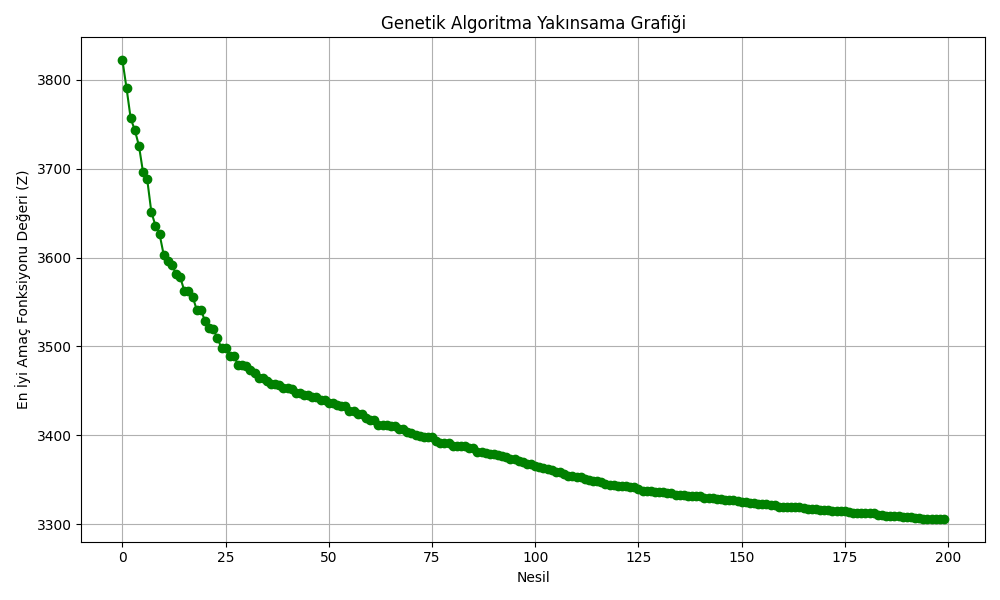
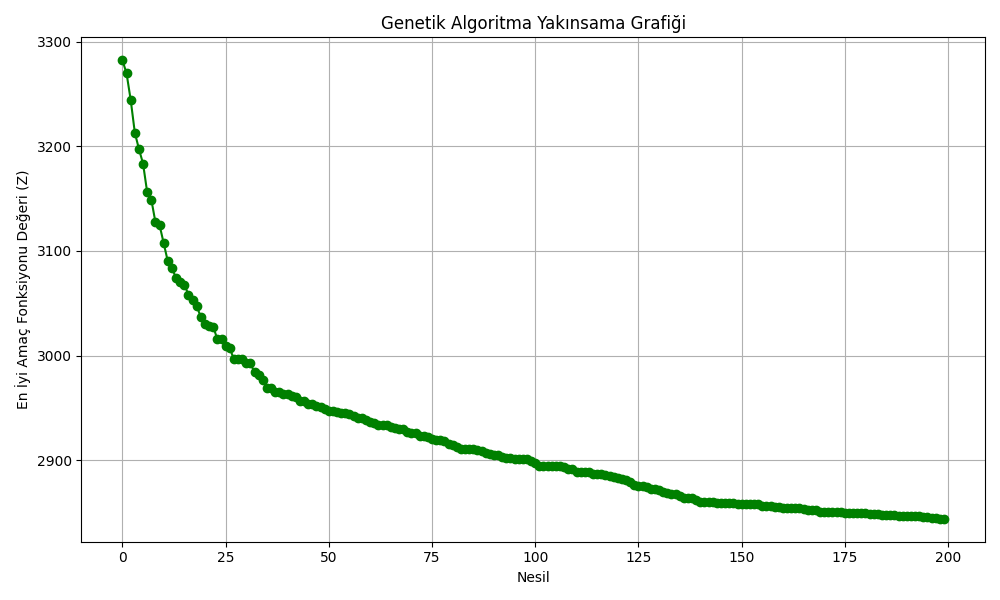
air qualityi tersine çevirerek deneme.py güncellendi

diff --git a/deneme.py b/deneme.py
@@ -82,8 +82,15 @@ def run_ga(bounds, objective):
 def main():
     df = pd.read_csv("result/birlesik_ilce_verisi.csv")
 
+    # Normalize + tersleme
+    aqi = df["Ortalama_AQI"]
+    normalized_inverse_aqi = 1 - (aqi - aqi.min()) / (aqi.max() - aqi.min())
+
+    # Taşıma skorunu hesapla
     df["Ti"] = df["Minibus_Durak_Sayisi"] + df["Taksi_Durak_Sayisi"] + 2 * df["Rayli_Istasyon_Sayisi"]
-    df["Si"] = W1 * df["Ortalama_AQI"] + W2 * df["Ti"]
+
+    # Nihai S skoru
+    df["Si"] = W1 * normalized_inverse_aqi + W2 * df["Ti"]
 
     GA = df["alan_metrekare"].values
     P = df["Nufus"].values
